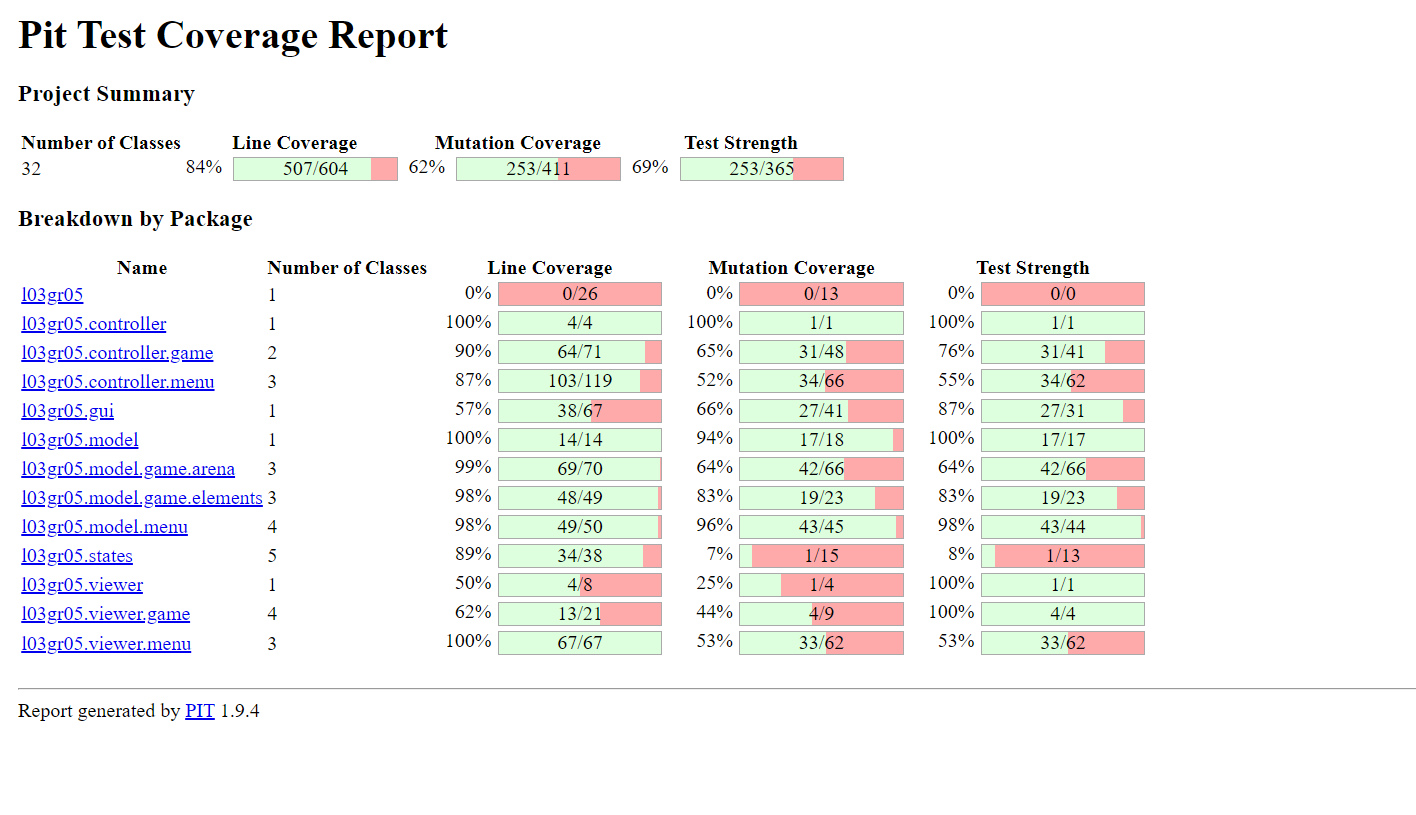
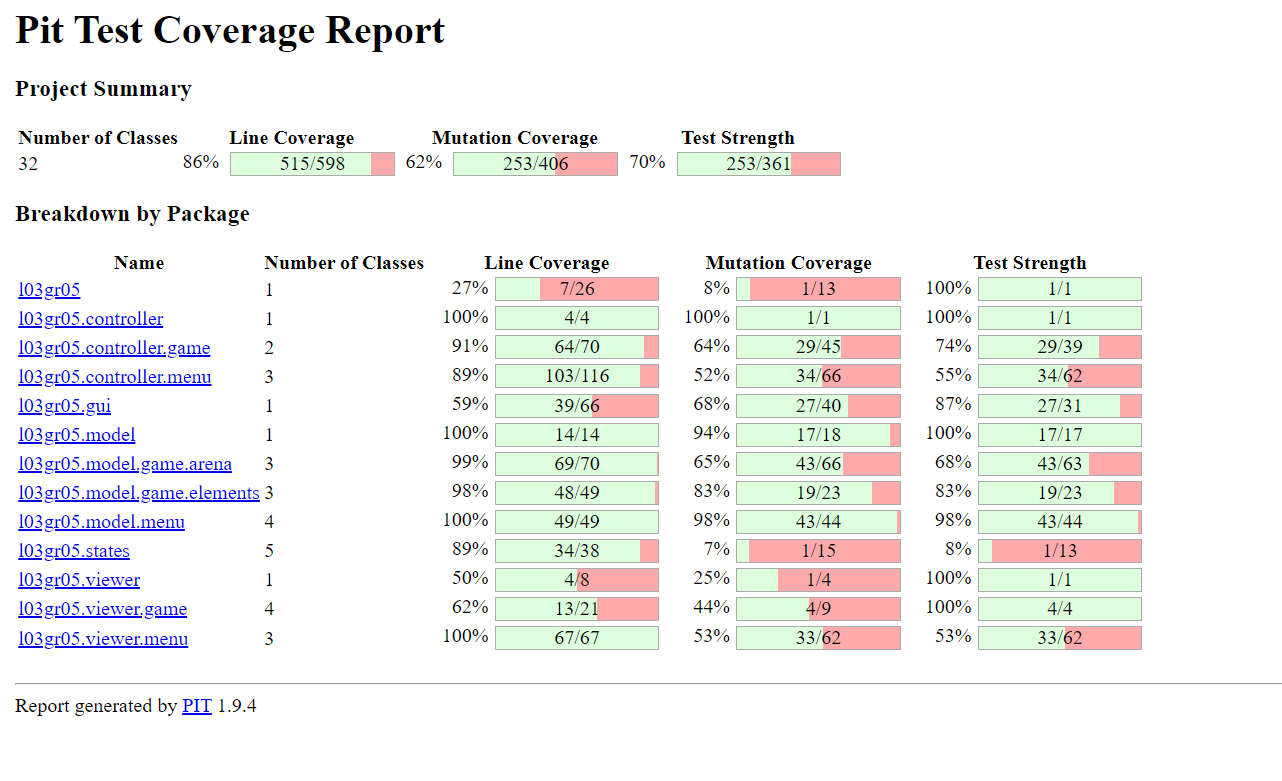
finished tests

diff --git a/docs/Pit Test Coverage Report Webpage.html b/docs/Pit Test Coverage Report Webpage.html
@@ -21,9 +21,9 @@
     <tbody>
         <tr>
             <td>32</td>
-            <td>84% <div class="coverage_bar"><div class="coverage_complete width-84"></div><div class="coverage_legend">507/604</div></div></td>
-            <td>62% <div class="coverage_bar"><div class="coverage_complete width-62"></div><div class="coverage_legend">253/411</div></div></td>
-            <td>69% <div class="coverage_bar"><div class="coverage_complete width-69"></div><div class="coverage_legend">253/365</div></div></td>
+            <td>86% <div class="coverage_bar"><div class="coverage_complete width-86"></div><div class="coverage_legend">515/598</div></div></td>
+            <td>62% <div class="coverage_bar"><div class="coverage_complete width-62"></div><div class="coverage_legend">253/406</div></div></td>
+            <td>70% <div class="coverage_bar"><div class="coverage_complete width-70"></div><div class="coverage_legend">253/361</div></div></td>
         </tr>
     </tbody>
 </table>
@@ -45,9 +45,9 @@
         <tr>
             <td><a href="./l03gr05/index.html">l03gr05</a></td>
             <td>1</td>
-            <td><div class="coverage_percentage">0% </div><div class="coverage_bar"><div class="coverage_complete width-0"></div><div class="coverage_legend">0/26</div></div></td>
-            <td><div class="coverage_percentage">0% </div><div class="coverage_bar"><div class="coverage_complete width-0"></div><div class="coverage_legend">0/13</div></div></td>
-            <td><div class="coverage_percentage">0% </div><div class="coverage_bar"><div class="coverage_complete width-0"></div><div class="coverage_legend">0/0</div></div></td>
+            <td><div class="coverage_percentage">27% </div><div class="coverage_bar"><div class="coverage_complete width-27"></div><div class="coverage_legend">7/26</div></div></td>
+            <td><div class="coverage_percentage">8% </div><div class="coverage_bar"><div class="coverage_complete width-8"></div><div class="coverage_legend">1/13</div></div></td>
+            <td><div class="coverage_percentage">100% </div><div class="coverage_bar"><div class="coverage_complete width-100"></div><div class="coverage_legend">1/1</div></div></td>
         </tr>
 
         <tr>
@@ -61,15 +61,15 @@
         <tr>
             <td><a href="./l03gr05.controller.game/index.html">l03gr05.controller.game</a></td>
             <td>2</td>
-            <td><div class="coverage_percentage">90% </div><div class="coverage_bar"><div class="coverage_complete width-90"></div><div class="coverage_legend">64/71</div></div></td>
-            <td><div class="coverage_percentage">65% </div><div class="coverage_bar"><div class="coverage_complete width-65"></div><div class="coverage_legend">31/48</div></div></td>
-            <td><div class="coverage_percentage">76% </div><div class="coverage_bar"><div class="coverage_complete width-76"></div><div class="coverage_legend">31/41</div></div></td>
+            <td><div class="coverage_percentage">91% </div><div class="coverage_bar"><div class="coverage_complete width-91"></div><div class="coverage_legend">64/70</div></div></td>
+            <td><div class="coverage_percentage">64% </div><div class="coverage_bar"><div class="coverage_complete width-64"></div><div class="coverage_legend">29/45</div></div></td>
+            <td><div class="coverage_percentage">74% </div><div class="coverage_bar"><div class="coverage_complete width-74"></div><div class="coverage_legend">29/39</div></div></td>
         </tr>
 
         <tr>
             <td><a href="./l03gr05.controller.menu/index.html">l03gr05.controller.menu</a></td>
             <td>3</td>
-            <td><div class="coverage_percentage">87% </div><div class="coverage_bar"><div class="coverage_complete width-87"></div><div class="coverage_legend">103/119</div></div></td>
+            <td><div class="coverage_percentage">89% </div><div class="coverage_bar"><div class="coverage_complete width-89"></div><div class="coverage_legend">103/116</div></div></td>
             <td><div class="coverage_percentage">52% </div><div class="coverage_bar"><div class="coverage_complete width-52"></div><div class="coverage_legend">34/66</div></div></td>
             <td><div class="coverage_percentage">55% </div><div class="coverage_bar"><div class="coverage_complete width-55"></div><div class="coverage_legend">34/62</div></div></td>
         </tr>
@@ -77,8 +77,8 @@
         <tr>
             <td><a href="./l03gr05.gui/index.html">l03gr05.gui</a></td>
             <td>1</td>
-            <td><div class="coverage_percentage">57% </div><div class="coverage_bar"><div class="coverage_complete width-57"></div><div class="coverage_legend">38/67</div></div></td>
-            <td><div class="coverage_percentage">66% </div><div class="coverage_bar"><div class="coverage_complete width-66"></div><div class="coverage_legend">27/41</div></div></td>
+            <td><div class="coverage_percentage">59% </div><div class="coverage_bar"><div class="coverage_complete width-59"></div><div class="coverage_legend">39/66</div></div></td>
+            <td><div class="coverage_percentage">68% </div><div class="coverage_bar"><div class="coverage_complete width-68"></div><div class="coverage_legend">27/40</div></div></td>
             <td><div class="coverage_percentage">87% </div><div class="coverage_bar"><div class="coverage_complete width-87"></div><div class="coverage_legend">27/31</div></div></td>
         </tr>
 
@@ -94,8 +94,8 @@
             <td><a href="./l03gr05.model.game.arena/index.html">l03gr05.model.game.arena</a></td>
             <td>3</td>
             <td><div class="coverage_percentage">99% </div><div class="coverage_bar"><div class="coverage_complete width-99"></div><div class="coverage_legend">69/70</div></div></td>
-            <td><div class="coverage_percentage">64% </div><div class="coverage_bar"><div class="coverage_complete width-64"></div><div class="coverage_legend">42/66</div></div></td>
-            <td><div class="coverage_percentage">64% </div><div class="coverage_bar"><div class="coverage_complete width-64"></div><div class="coverage_legend">42/66</div></div></td>
+            <td><div class="coverage_percentage">65% </div><div class="coverage_bar"><div class="coverage_complete width-65"></div><div class="coverage_legend">43/66</div></div></td>
+            <td><div class="coverage_percentage">68% </div><div class="coverage_bar"><div class="coverage_complete width-68"></div><div class="coverage_legend">43/63</div></div></td>
         </tr>
 
         <tr>
@@ -109,8 +109,8 @@
         <tr>
             <td><a href="./l03gr05.model.menu/index.html">l03gr05.model.menu</a></td>
             <td>4</td>
-            <td><div class="coverage_percentage">98% </div><div class="coverage_bar"><div class="coverage_complete width-98"></div><div class="coverage_legend">49/50</div></div></td>
-            <td><div class="coverage_percentage">96% </div><div class="coverage_bar"><div class="coverage_complete width-96"></div><div class="coverage_legend">43/45</div></div></td>
+            <td><div class="coverage_percentage">100% </div><div class="coverage_bar"><div class="coverage_complete width-100"></div><div class="coverage_legend">49/49</div></div></td>
+            <td><div class="coverage_percentage">98% </div><div class="coverage_bar"><div class="coverage_complete width-98"></div><div class="coverage_legend">43/44</div></div></td>
             <td><div class="coverage_percentage">98% </div><div class="coverage_bar"><div class="coverage_complete width-98"></div><div class="coverage_legend">43/44</div></div></td>
         </tr>
 

diff --git a/docs/README.md b/docs/README.md
@@ -162,7 +162,7 @@ The removal of this smell implied larger scale changes to the code as the automa
 </p>
 
 ### Link to testing report
-[Mutation tests](index.html)
+[Mutation tests](Pit Test Coverage Report Webpage.html)
 
 ## Self-evaluation
 
